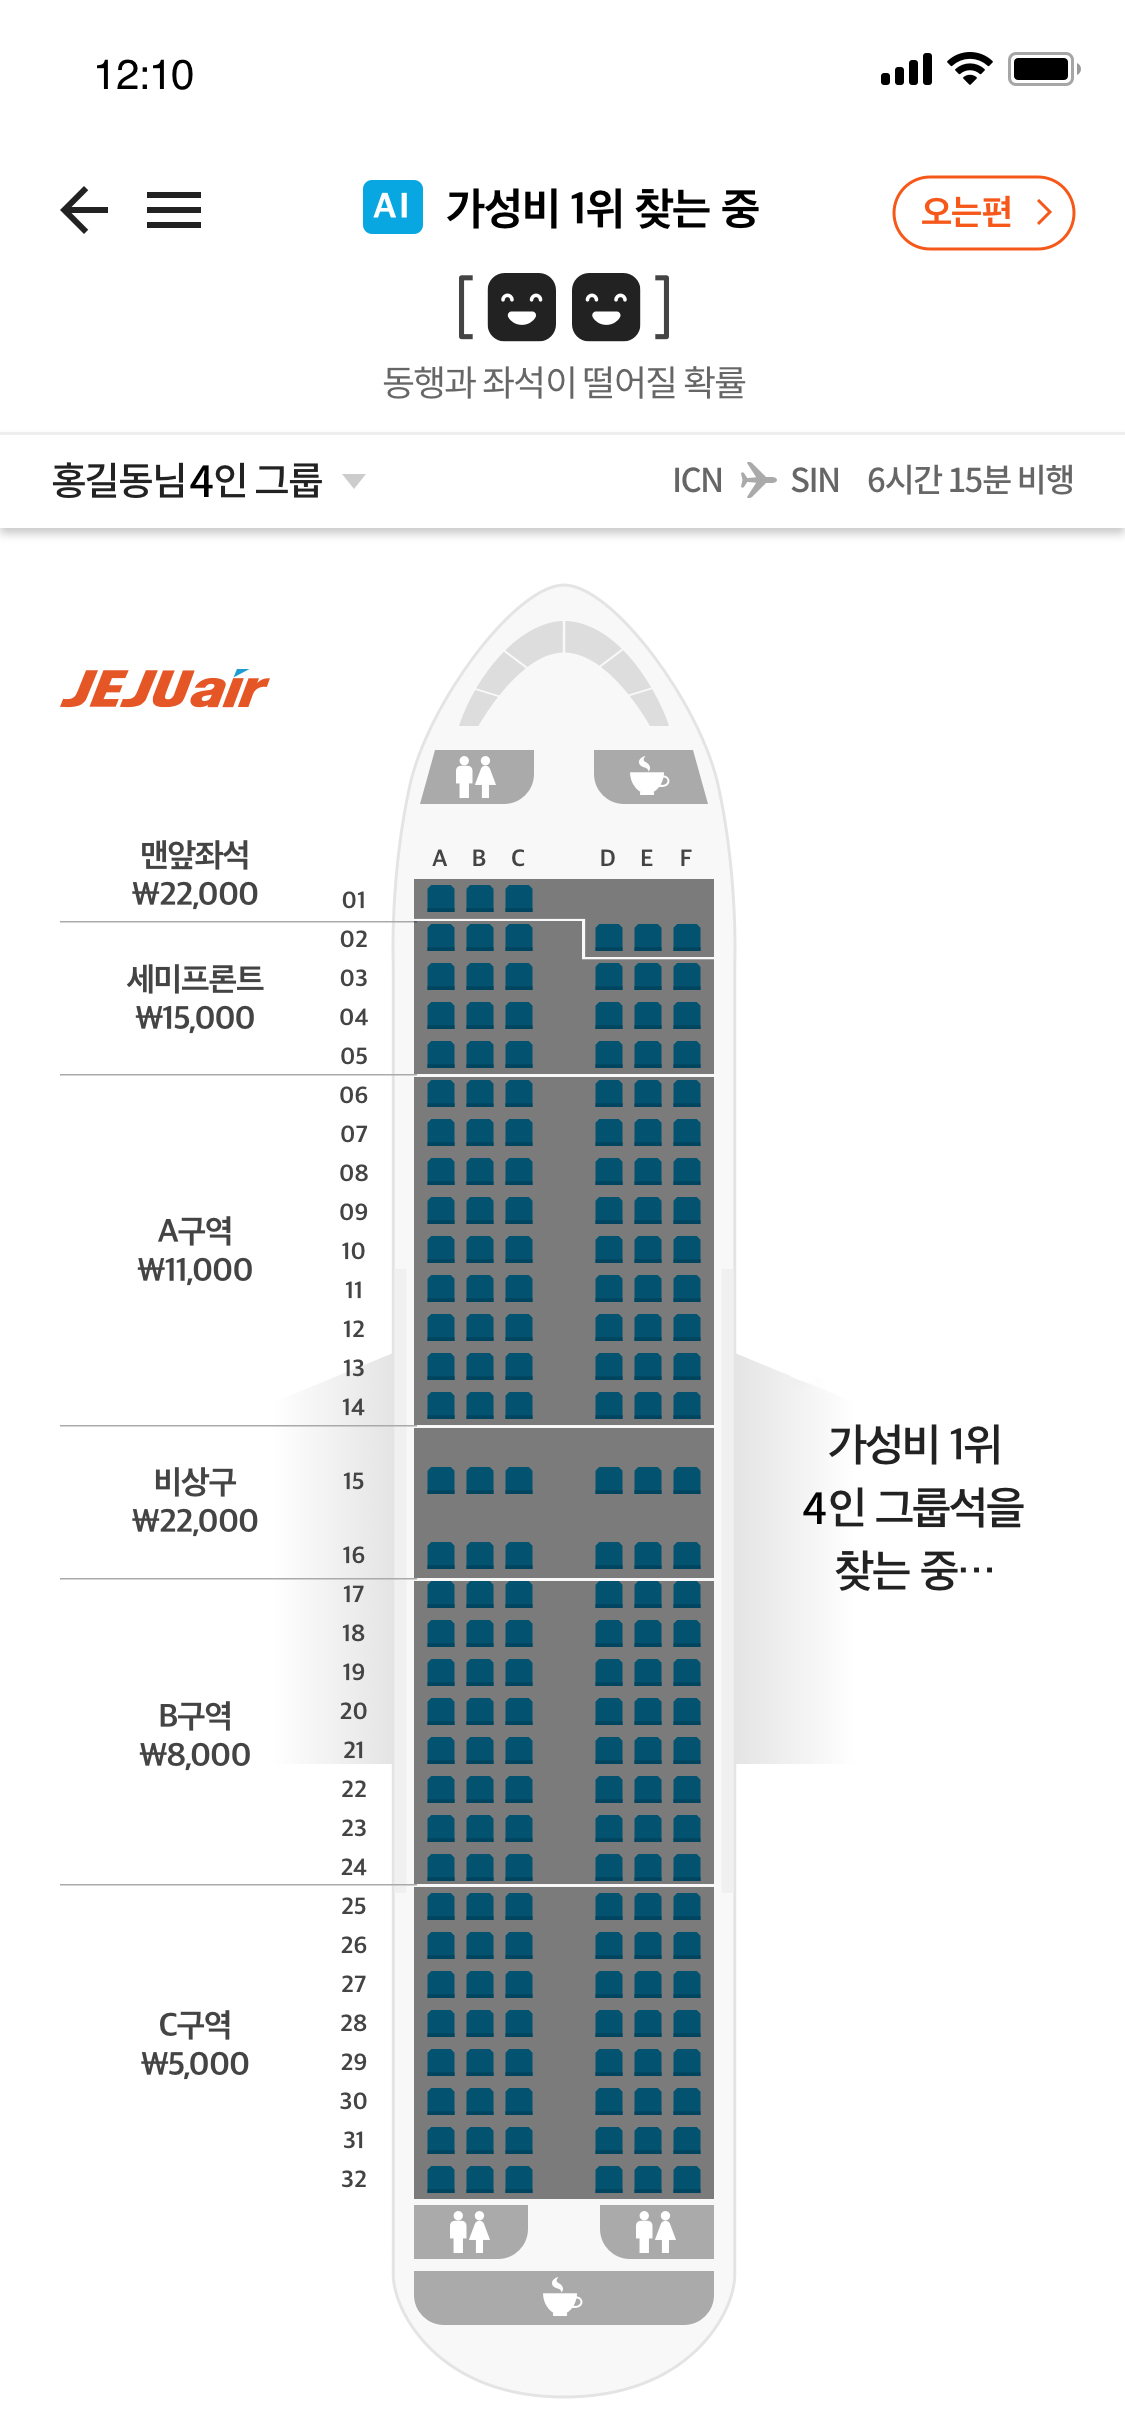
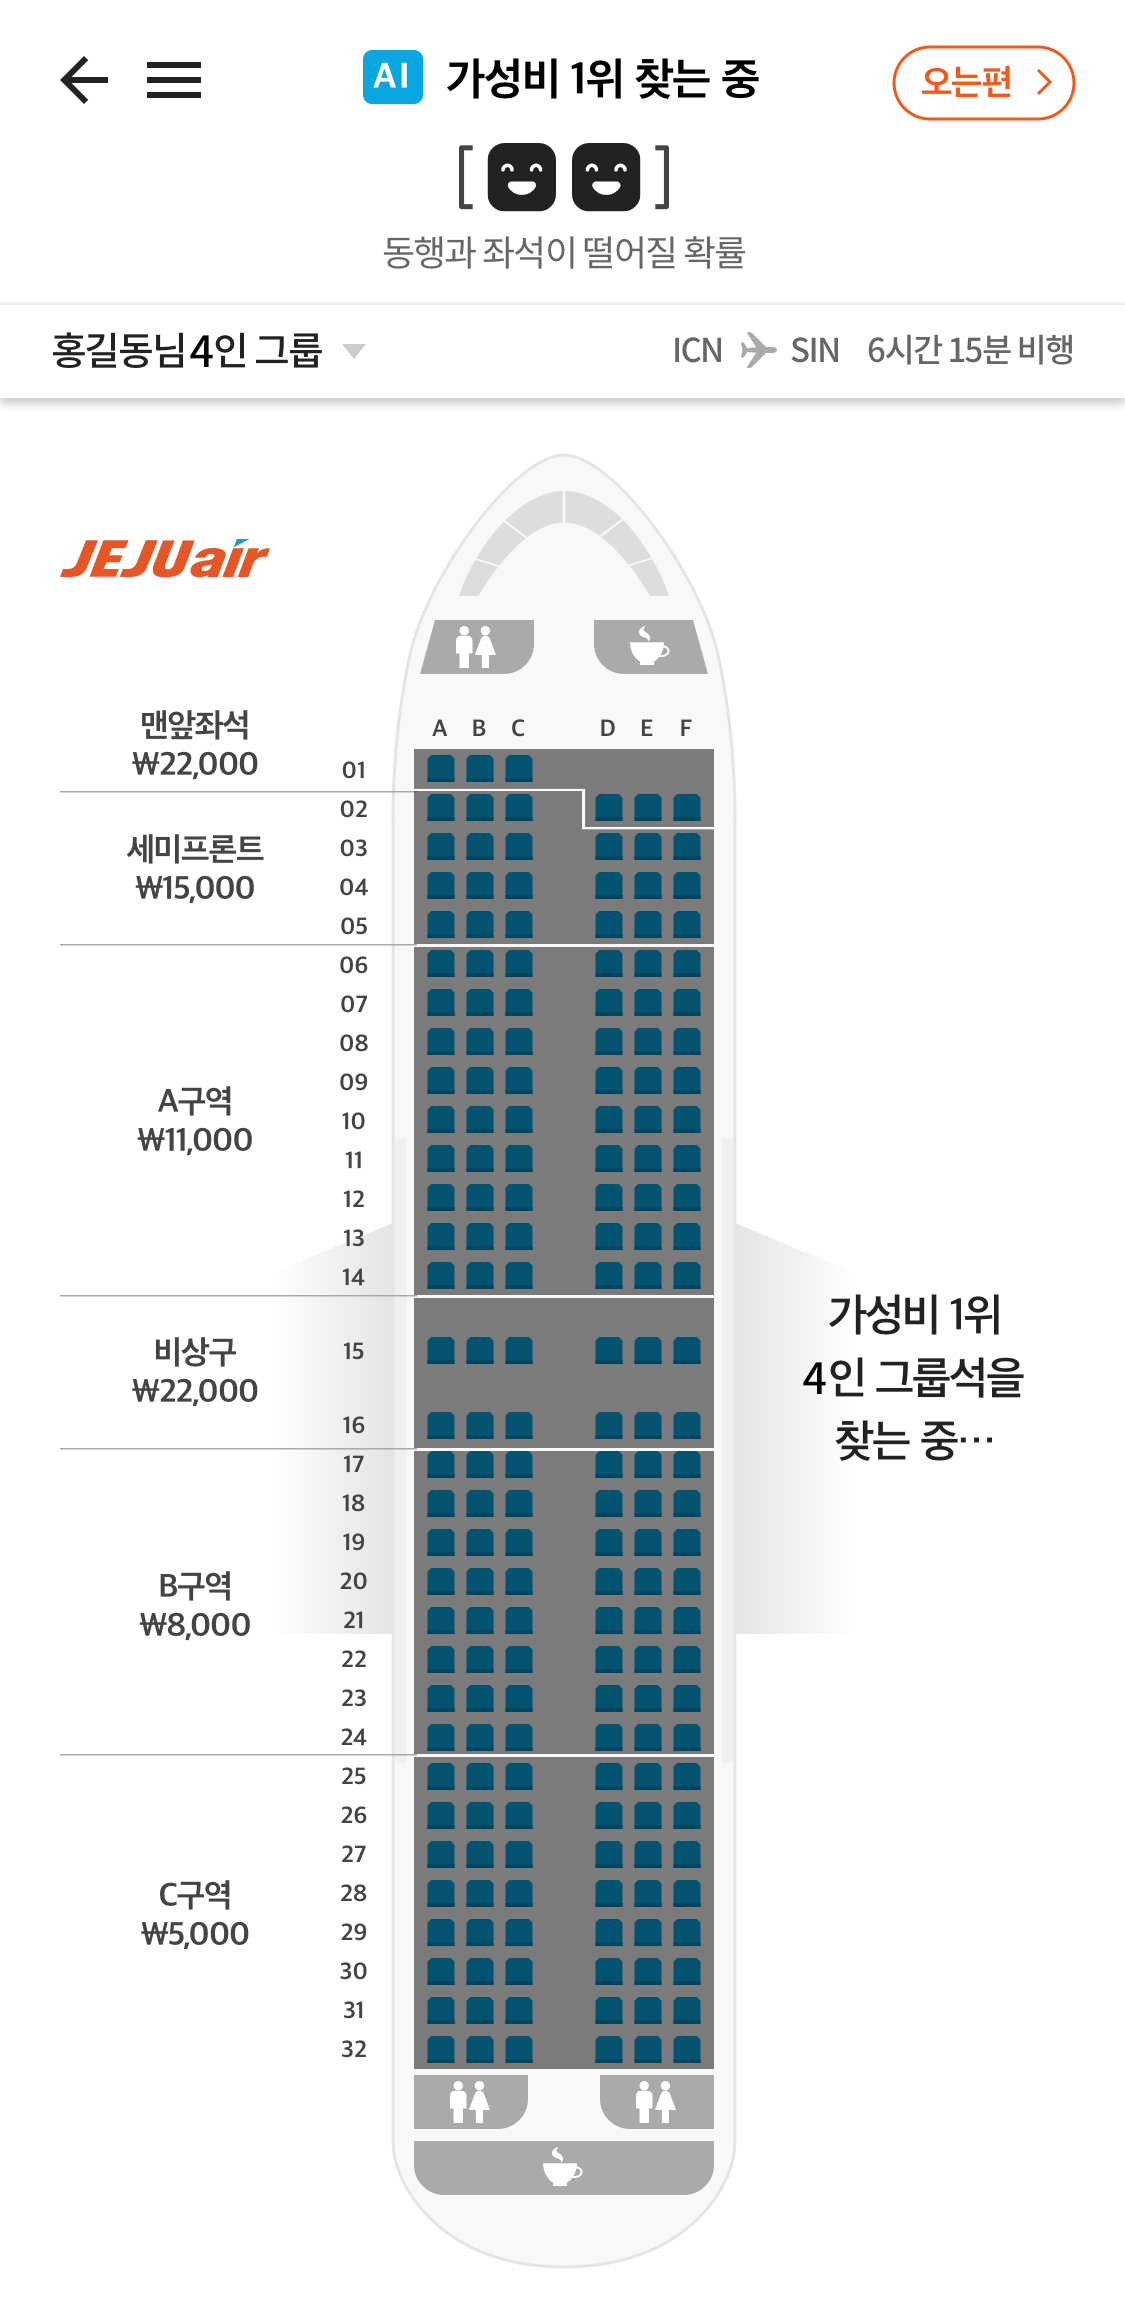
ppt

diff --git a/alphaseat/ppt/resource/common.css b/alphaseat/ppt/resource/common.css
@@ -25,7 +25,7 @@ position: relative;
 }
 
 .abc2 a{
-  top: 50%;
+  top: 47%;
   right: 5%;
   width: 28%;
   height: 10%;
@@ -36,14 +36,21 @@ position: relative;
 }
 
 .abc3 a{
-  top: 44%;
+  top: 41%;
   right: 35%;
   width: 28%;
   height: 15%;
   position: absolute;
 }
 
-
+.alpha .back{
+  width: 50px;
+  height: 30px;
+  position: absolute;
+  top: 15px;
+  left: 15px;
+  z-index: 10;
+}
 
 
 

diff --git a/alphaseat/ppt/index2.html b/alphaseat/ppt/index2.html
@@ -13,13 +13,14 @@
 </head>
 
 <body>
-	<div class="alpha">
+	<div class="alpha">		
 		<div class="abc2">
+			<div class="back">
+				<a href="index.html"></a>
+			</div>
 			<a href="index3.html" class="img02"></a>			
 			<img id="img" src="./image/ppt_00_1.jpg">
 		</div>
-
-
 	</div>
 
 </body>

diff --git a/alphaseat/ppt/index4.html b/alphaseat/ppt/index4.html
@@ -16,6 +16,9 @@
 	<div class="alpha">
 		
 		<div class="abc3">
+			<div class="back">
+				<a href="index3.html"></a>
+			</div>
 			<button class="imggo"></button>
 			<button class="imgback"></button>
 			<a href=""class="img03" ></a>			

diff --git a/alphaseat/ppt/index3.html b/alphaseat/ppt/index3.html
@@ -15,6 +15,9 @@
 <body>
 	<div class="alpha">
 		<div class="abc3">
+			<div class="back">
+				<a href="index2.html"></a>
+			</div>
 			<a href="index4.html"class="img03" ></a>			
 			<img id="img" src="./image/ppt_00_2.jpg">
 		</div>
